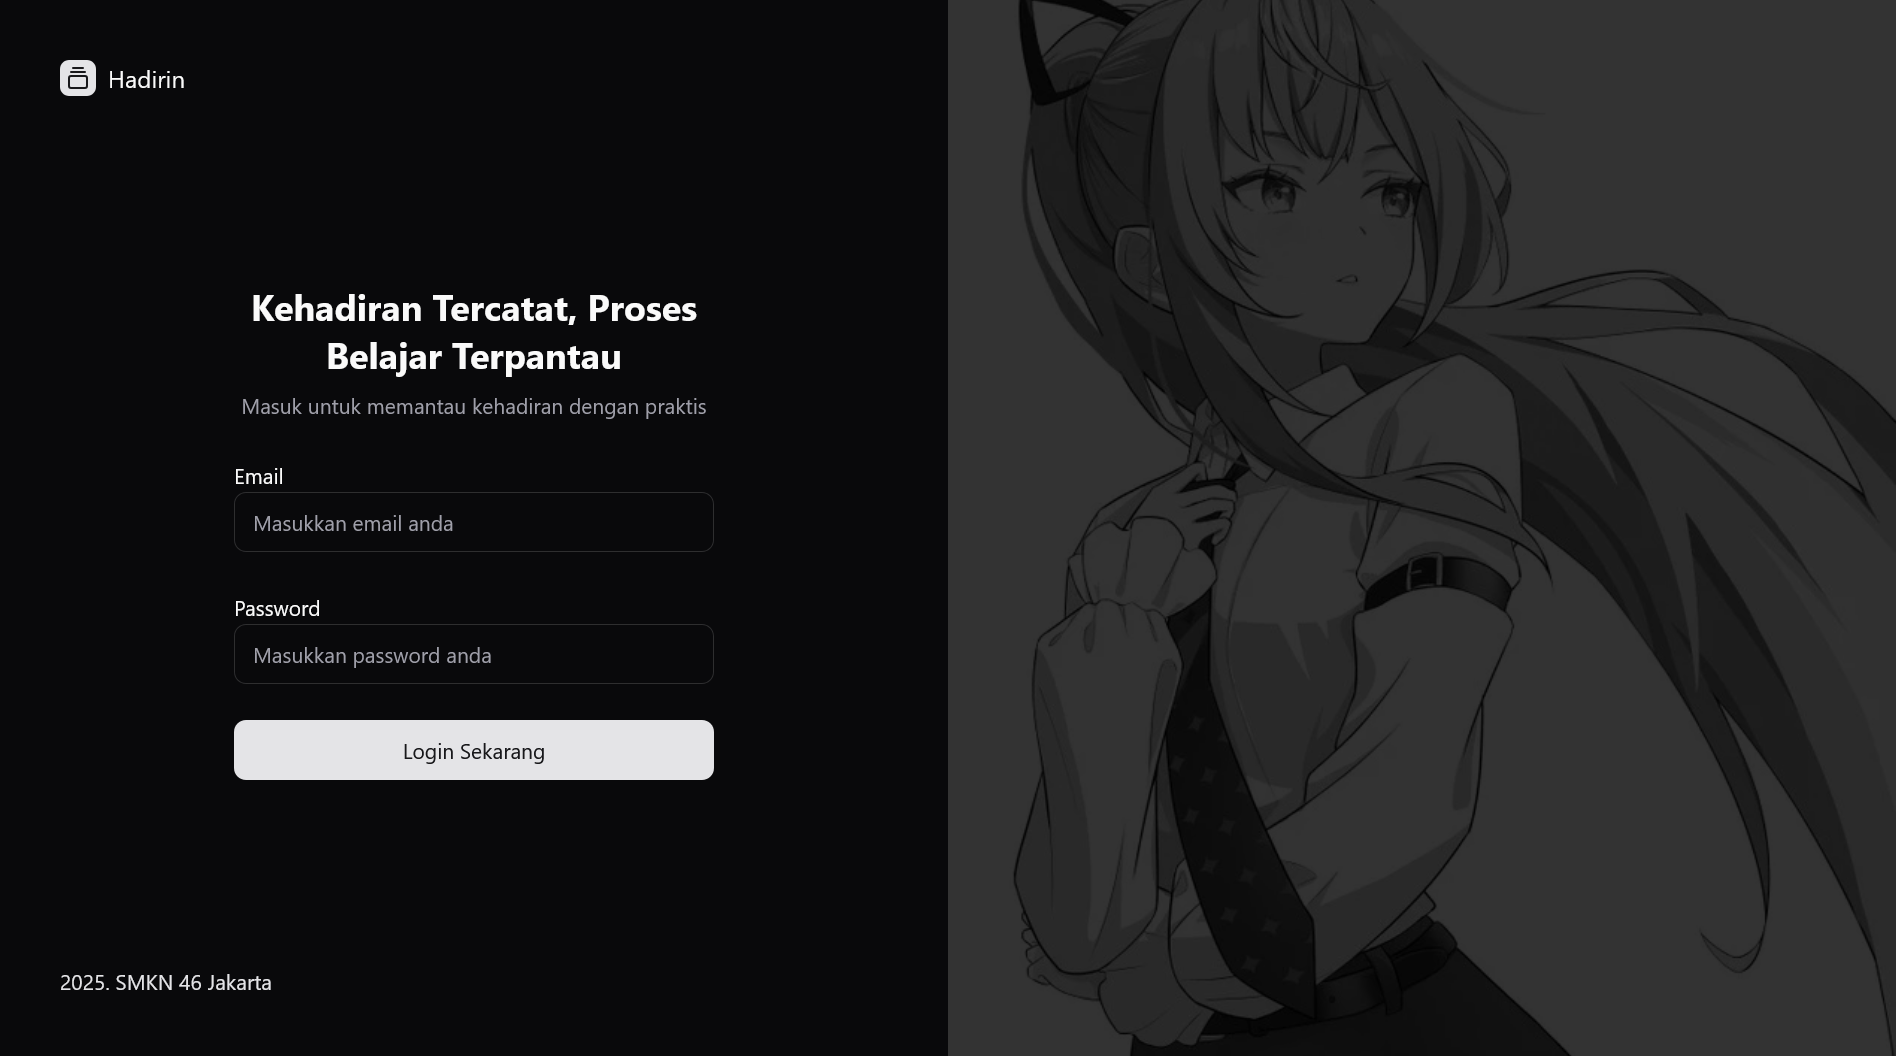
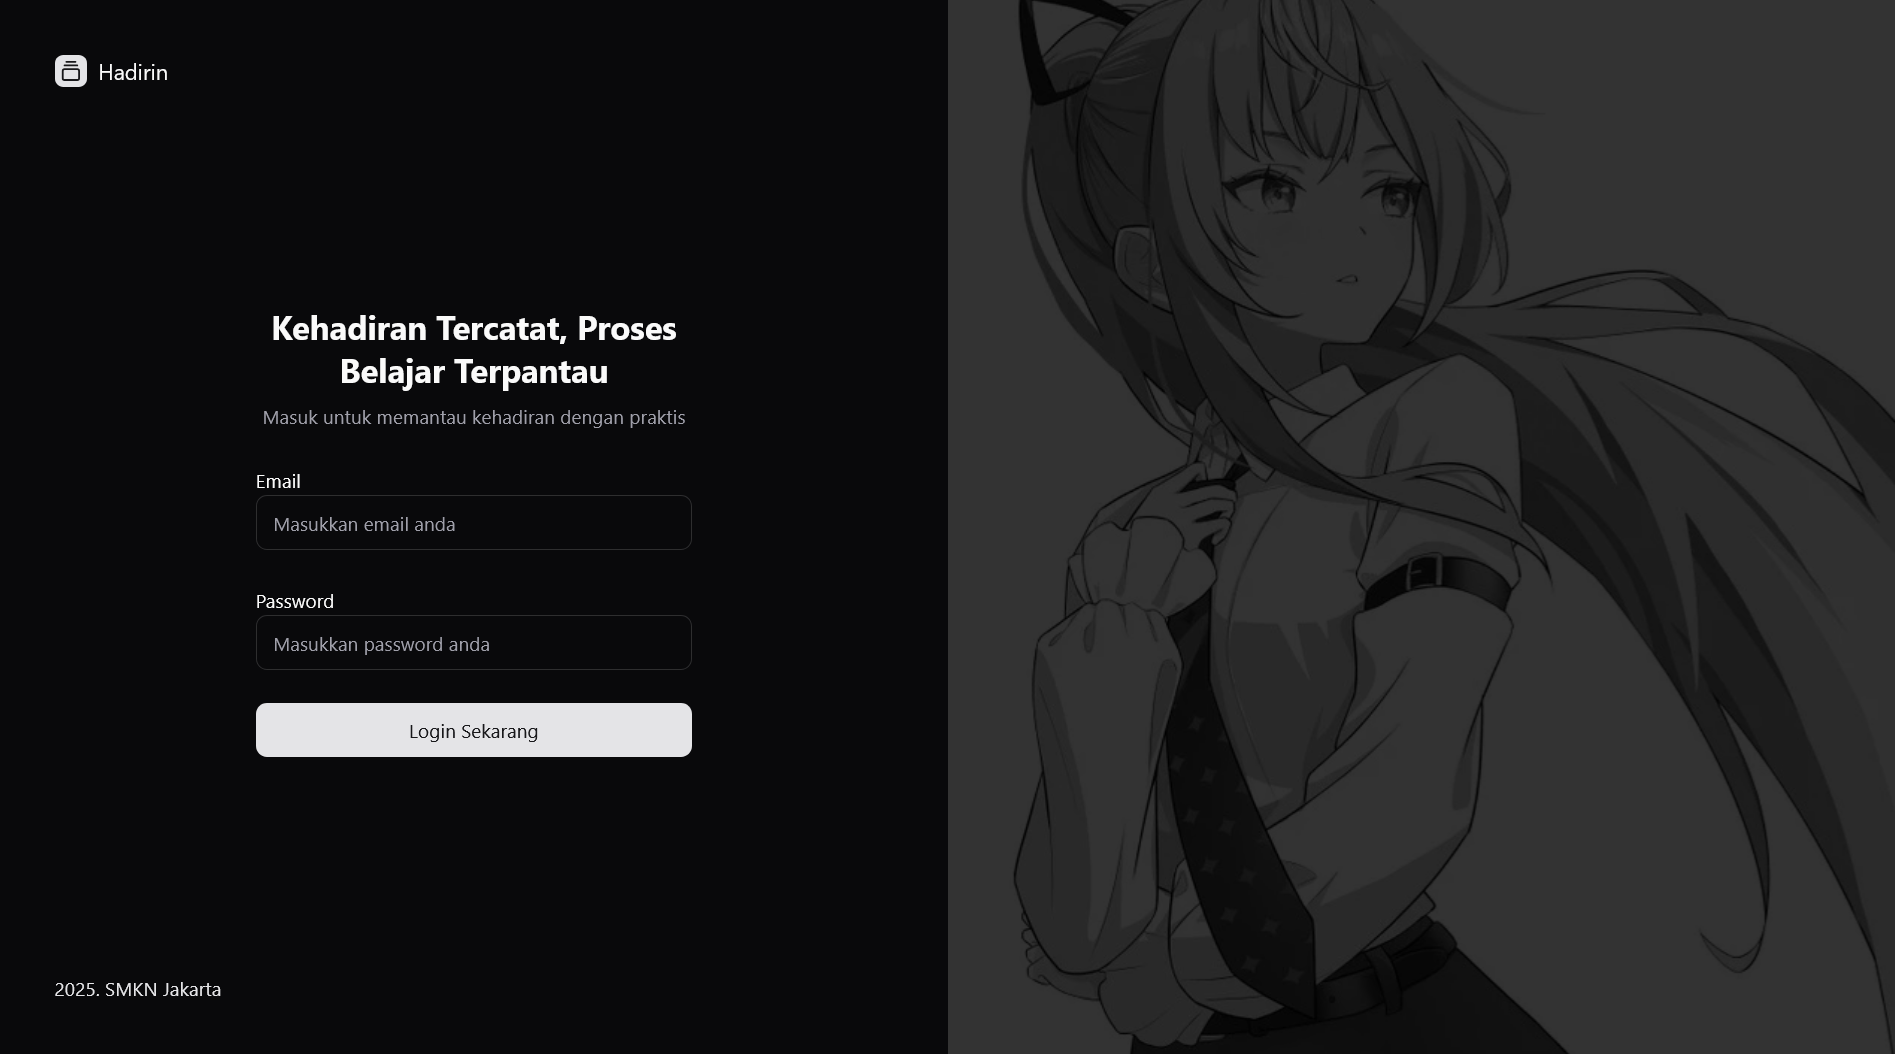
Mengubah dokumentasi (#1)

diff --git a/app/(auth)/login/page.tsx b/app/(auth)/login/page.tsx
@@ -23,7 +23,7 @@ export default function LoginPage() {
         <div className="flex justify-center gap-2 md:justify-start">
           <a href="#" className="flex items-center gap-2 font-medium">
             <div className="text-primary text-sm">
-              2025. SMKN 46 Jakarta
+              2025. SMKN Jakarta
             </div>
           </a>
         </div>

diff --git a/README.md b/README.md
@@ -175,43 +175,43 @@ model Kehadiran {
 git clone https://github.com/IRTIDEATH/Absensi-Sederhana.git
 ```
 
-1. Buka text editor anda dan kita akan install package, buka terminal, lalu jalankan
+2. Buka text editor anda dan kita akan install package, buka terminal, lalu jalankan
 
 ```markdown
 npm install
 ```
 
-1. Jika sudah selesai menginstall, kita akan melakukan migrasi database ke local
-2. Buka file .env.example, rename file menjadi .env
-3. Masukkan database url anda
+3. Jika sudah selesai menginstall, kita akan melakukan migrasi database ke local
+4. Buka file .env.example, rename file menjadi .env
+5. Masukkan database url anda
 
 ```markdown
 DATABASE_URL="postgresql://postgres:[YOUR_PASSWORD]@localhost:[YOUR_PORT]/[YOUR_DB_NAME]?schema=public"
 ```
 
-1. Buka terminal lalu jalankan
+6. Buka terminal lalu jalankan
 
 ```markdown
 npx prisma migrate dev
 ```
 
-1. Projek sudah siap dijalankan dan dikembangkan
-2. dev
+7. Projek sudah siap dijalankan dan dikembangkan
+8. dev
 
 ```markdown
 npm run dev
 ```
 
-1. build
+9. build
 
 ```markdown
 npm run build
 ```
 
-1. preview
+10. preview
 
 ```markdown
 npm run start
 ```
 
-### Sekian dan Terima Kasih
+##### Sekian dan Terima Kasih
